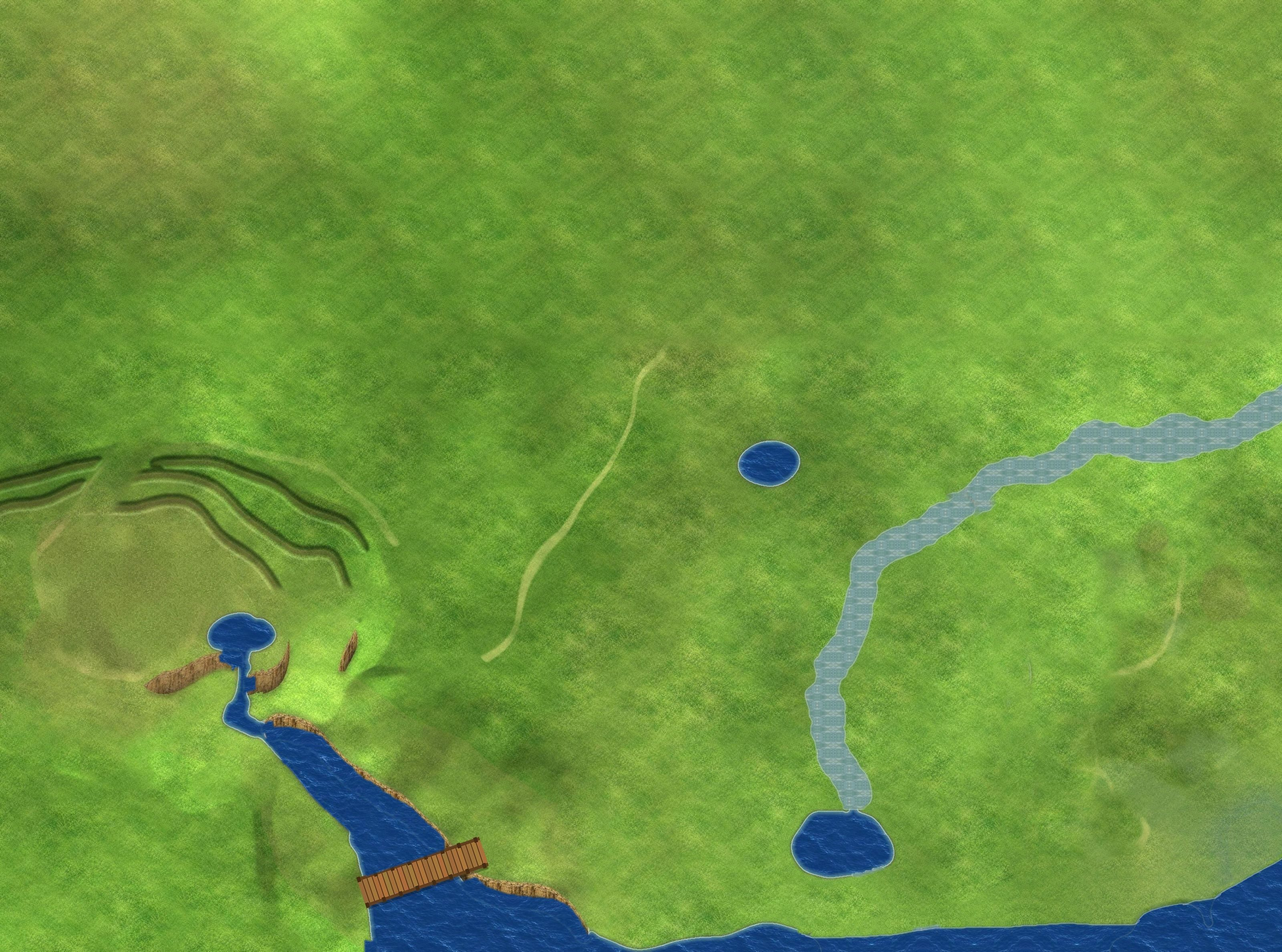
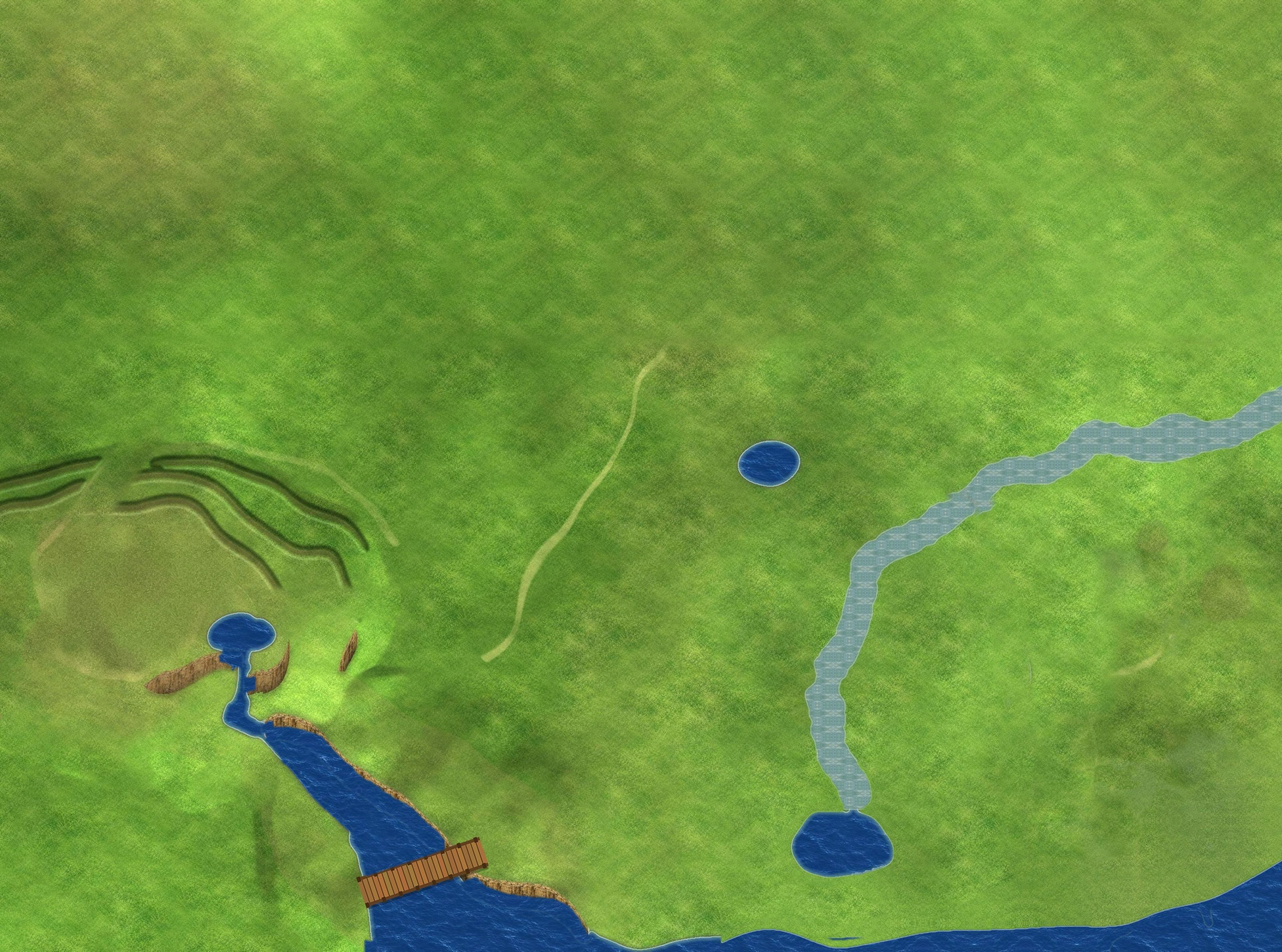
东/南海岸线整体抹顺成流线型，只留一条浪花边；东南灰雾清掉 Co-Authored-By: Claude Opus 5.5 <noreply@anthropic.com> Claude-Session: https://claude.ai/code/session_011WrGna6yNwTfpmyp4CxMHs

diff --git a/tools/smooth_coast.py b/tools/smooth_coast.py
@@ -1,0 +1,43 @@
+"""一次性：东/南海岸线整体抹顺（大尺度平滑），重画草地/海水和浪花边。"""
+import numpy as np,cv2,json
+from PIL import Image
+R='/home/claude/sanguoxingcunzhe';M=R+'/assets/map/'
+J=json.load(open(R+'/data/world.json'));HD=J['HD'];T=J['tiles']['T'];W,H=J['WW'],J['WH']
+full=np.zeros((H*HD,W*HD,3),np.uint8)
+for t in J['tiles']['list']:
+    im=np.array(Image.open(M+t+'.jpg').convert('RGB'));tx,ty=int(t[1]),int(t[2]);full[ty*T*HD:ty*T*HD+im.shape[0],tx*T*HD:tx*T*HD+im.shape[1]]=im
+c=np.array(Image.open(M+'coll.png').convert('RGB'));b=c[...,0]
+f=cv2.GaussianBlur(full[::HD,::HD].astype(np.float32),(0,0),2);sea=(f[...,2]>f[...,1]+40)&(f[...,0]<90)
+n,lb=cv2.connectedComponents(sea.astype(np.uint8));ed=set(np.unique(np.concatenate([lb[-1],lb[:,-1]])))-{0};ocean=np.isin(lb,list(ed))
+reg=np.zeros((H,W),bool);reg[60:,1450:]=True;reg[950:,900:]=True
+land=~ocean
+sm=cv2.GaussianBlur(land.astype(np.float32),(0,0),22)>.5
+newsea=reg&land&~sm&(b!=2)
+newland=reg&ocean&sm
+up=lambda x:cv2.resize(x.astype(np.uint8),(W*HD,H*HD),interpolation=cv2.INTER_NEAREST)>0
+P=full[900*HD:900*HD+128,1800*HD:1800*HD+128].astype(np.float32);pm=np.concatenate([P,P[:,::-1]],1);pm=np.concatenate([pm,pm[::-1]],0)
+water=np.tile(pm,(H*HD//pm.shape[0]+1,W*HD//pm.shape[1]+1,1))[:H*HD,:W*HD]
+s=8;small=cv2.resize(full,(W*HD//s,H*HD//s),interpolation=cv2.INTER_AREA)
+unk=cv2.resize((newland|ocean|((f[...,2]>74)&reg)|(b==1)|(b==2)).astype(np.uint8),(W*HD//s,H*HD//s),interpolation=cv2.INTER_NEAREST);unk=cv2.dilate(unk,np.ones((5,5),np.uint8))
+low=cv2.inpaint(small[...,::-1],unk*255,10,cv2.INPAINT_TELEA)[...,::-1];low=cv2.GaussianBlur(low.astype(np.float32),(0,0),3);low=cv2.resize(low,(W*HD,H*HD),interpolation=cv2.INTER_CUBIC)
+pre=np.array(Image.open('/tmp/claude-0/s/pre/g00.jpg').convert('RGB'))
+Pt=pre[150*HD:150*HD+256,900*HD:900*HD+256].astype(np.float32);det=Pt-cv2.GaussianBlur(Pt,(0,0),12)
+det=np.concatenate([det,det[:,::-1]],1);det=np.concatenate([det,det[::-1]],0)
+tile=np.tile(det,(H*HD//det.shape[0]+1,W*HD//det.shape[1]+1,1))[:H*HD,:W*HD]
+socean=(ocean|newsea)&~newland
+# 海岸附近一条带子全部重画，保证白边只有一条
+dcoast=cv2.distanceTransform((~socean).astype(np.uint8),cv2.DIST_L2,5);dland=cv2.distanceTransform(socean.astype(np.uint8),cv2.DIST_L2,5)
+haze=(f[...,2]>74)&(f[...,2]<f[...,1]-20)&(b==0)&reg&~socean
+haze=cv2.morphologyEx(haze.astype(np.uint8),cv2.MORPH_CLOSE,np.ones((11,11),np.uint8)).astype(bool)&(b==0)&~socean
+bandL=(reg&~socean&(dcoast<10)&(b!=2))|haze;bandS=reg&socean&(dland<10)
+out=full.astype(np.float32)
+a=cv2.GaussianBlur(up(newland|bandL).astype(np.float32),(0,0),2)[...,None];out=out*(1-a)+(low+tile)*a
+a=cv2.GaussianBlur(up(newsea|bandS).astype(np.float32),(0,0),2)[...,None];out=out*(1-a)+water*a
+O=up(socean);e=cv2.GaussianBlur((~O).astype(np.float32),(0,0),1.5*HD)
+edge=np.clip(1-np.abs(e-.5)*4,0,1)[...,None]*.55*up(reg)[...,None]
+out=np.clip(out*(1-edge)+np.array([225,235,238])*edge,0,255).astype(np.uint8)
+b[newsea]=1;b[newland&(b==1)]=0;c[...,0]=b;Image.fromarray(c).save(M+'coll.png')
+for t in J['tiles']['list']:
+    tx,ty=int(t[1]),int(t[2]);Image.fromarray(out[ty*T*HD:(ty+1)*T*HD,tx*T*HD:(tx+1)*T*HD]).save(M+t+'.jpg',quality=82,optimize=True)
+J['ver']+=1;json.dump(J,open(R+'/data/world.json','w'),ensure_ascii=False,separators=(',',':'))
+Image.fromarray(out[:, 900*HD:][::3,::3]).save('/tmp/claude-0/s/co.png');print(newsea.sum(),newland.sum())
